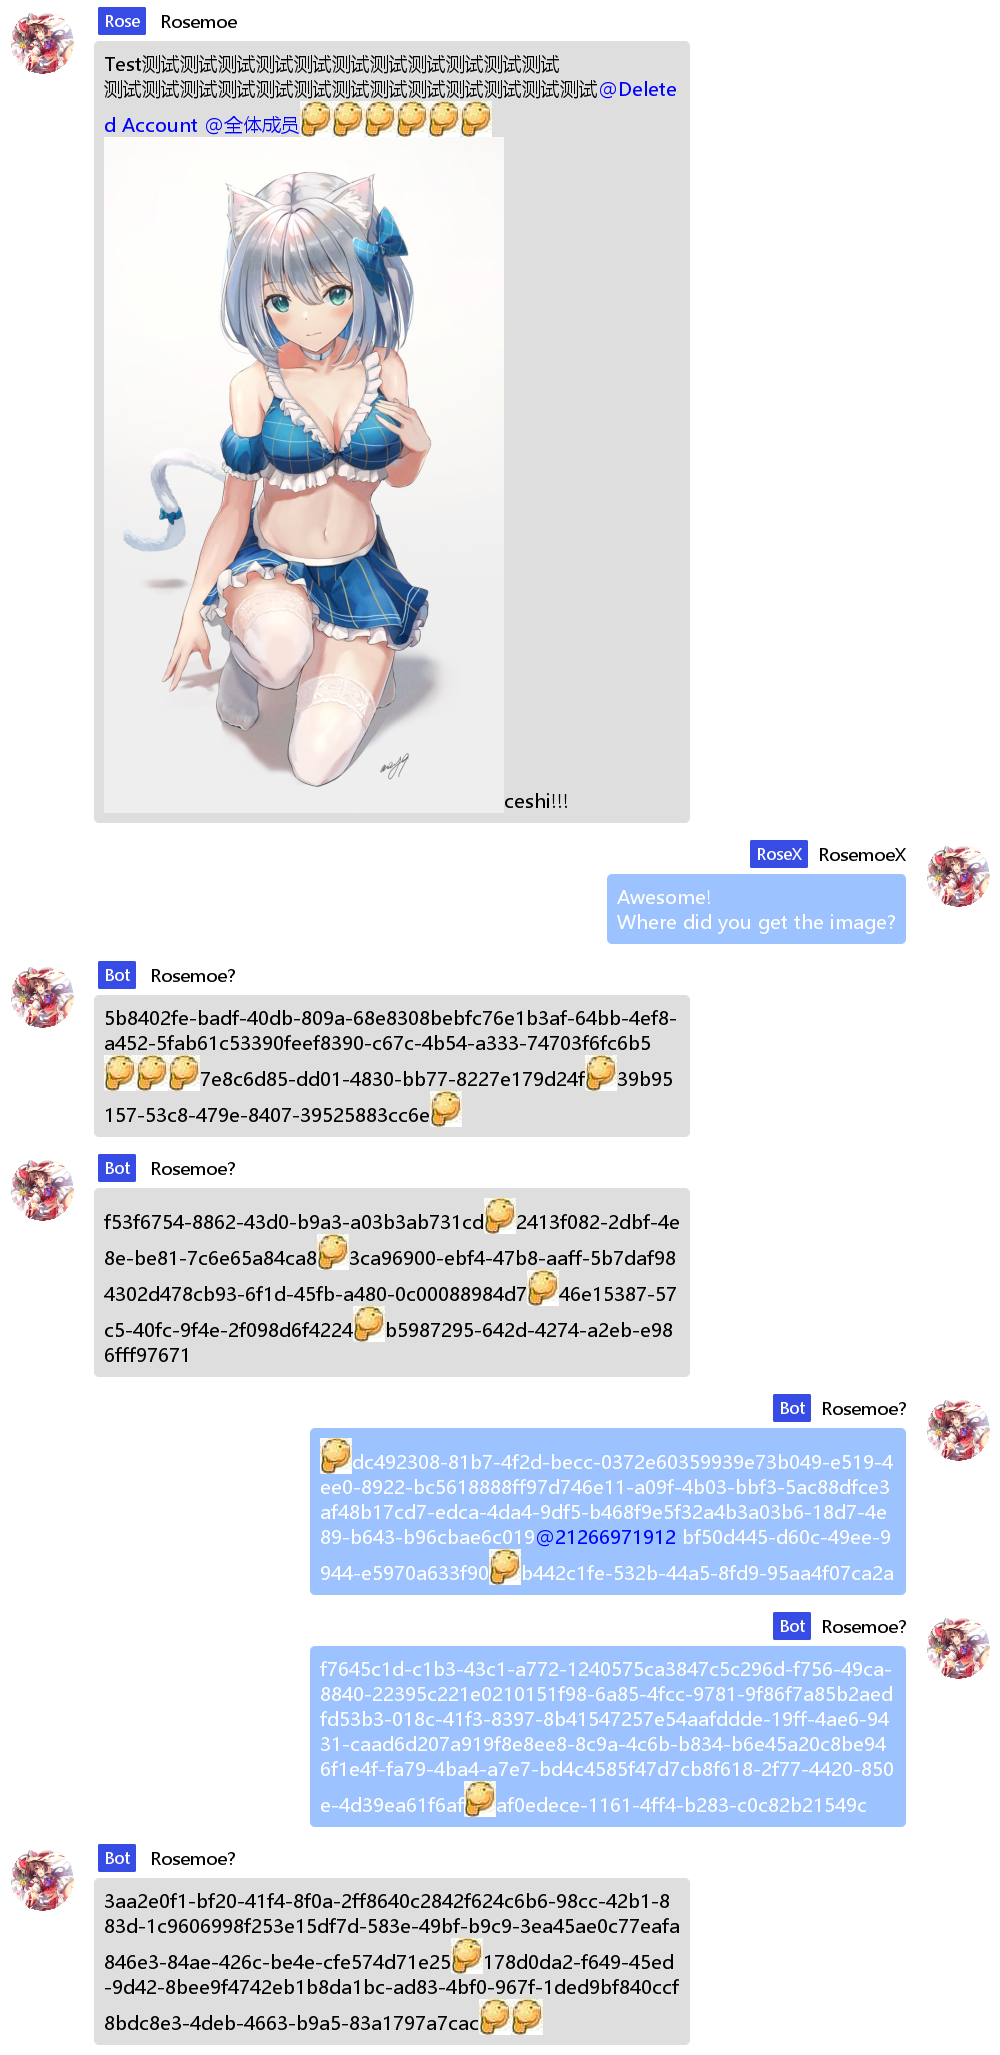
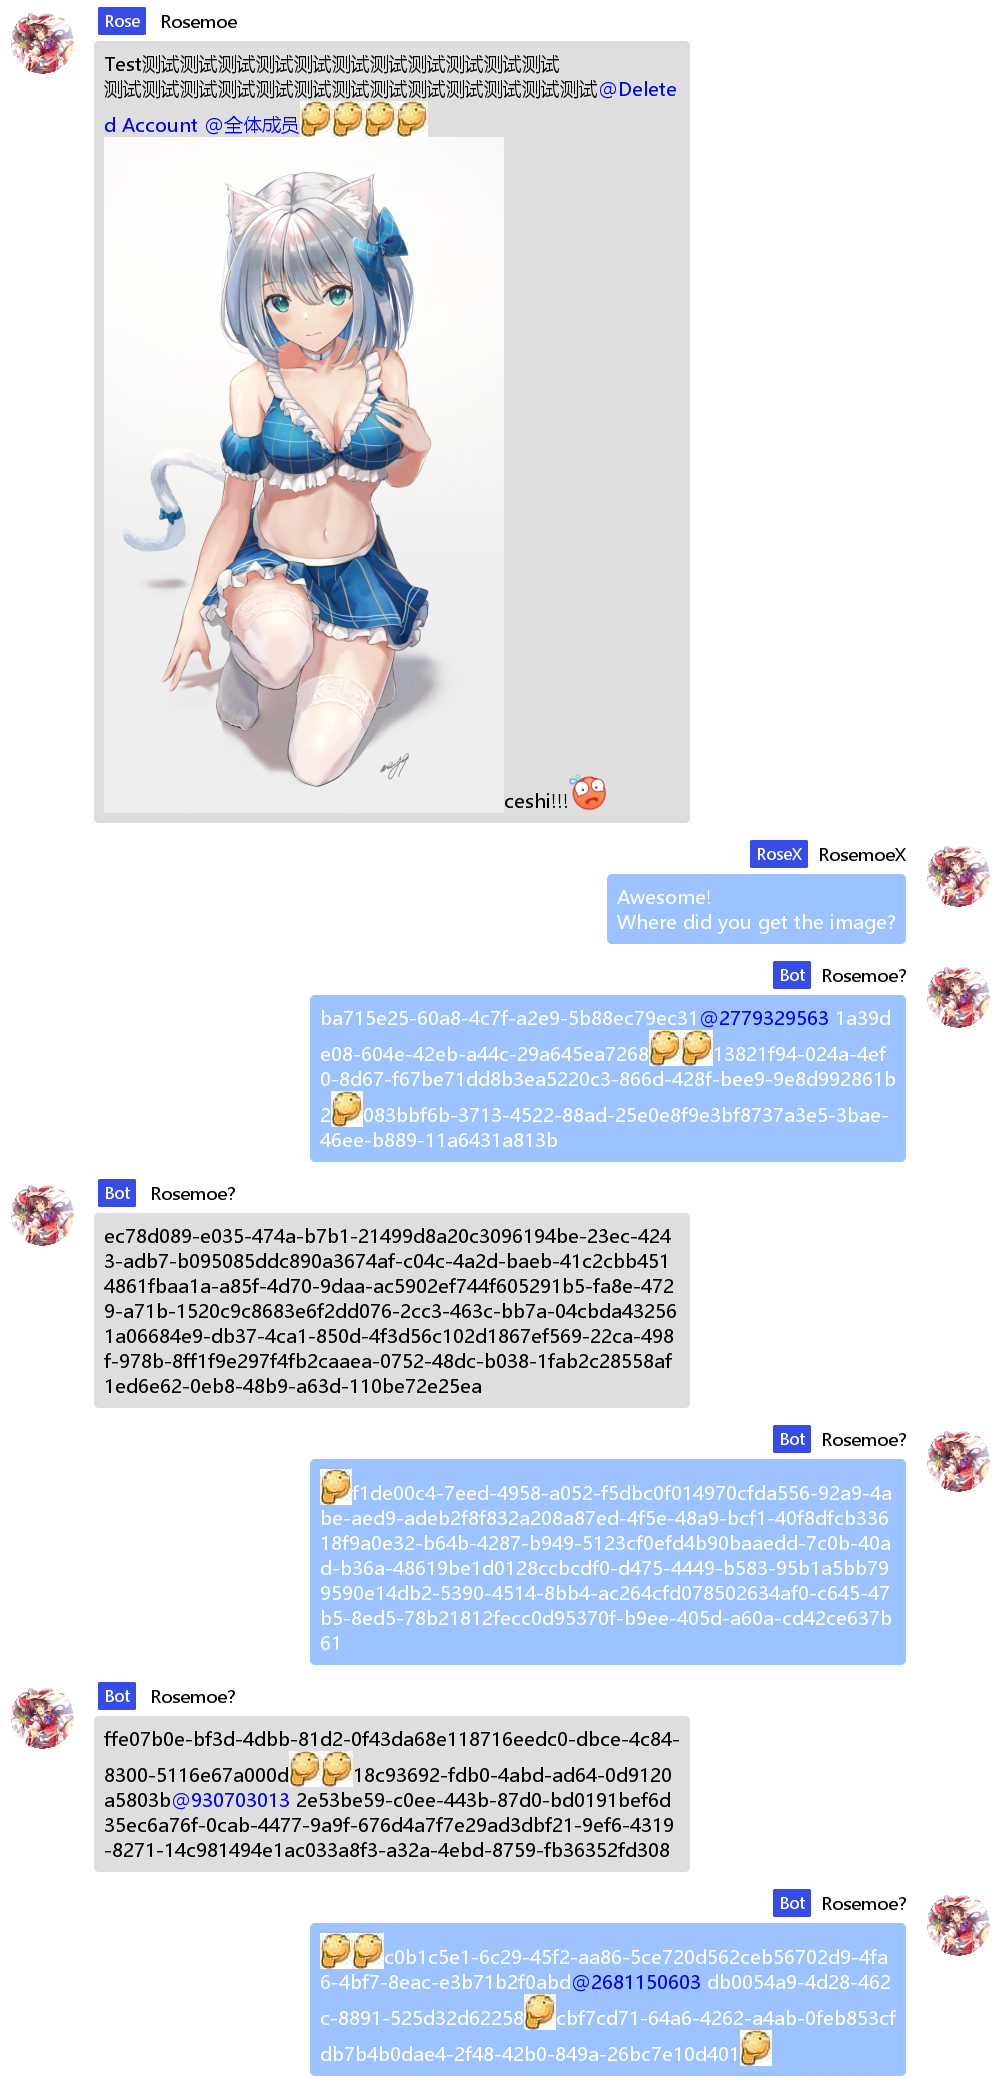
Add FaceStore and some qq faces

diff --git a/src/main/kotlin/io/github/rosemoe/msgRenderer/FaceStore.kt b/src/main/kotlin/io/github/rosemoe/msgRenderer/FaceStore.kt
@@ -1,0 +1,57 @@
+package io.github.rosemoe.msgRenderer
+
+import net.mamoe.mirai.message.data.Face
+import java.awt.Image
+import java.io.InputStreamReader
+import javax.imageio.ImageIO
+
+/**
+ * Class for managing QQ faces
+ */
+object FaceStore {
+
+    private var size = 40
+
+    private val faces by lazy {
+        val map = HashMap<Int, Image?>()
+        val cl = FaceStore::class.java.classLoader
+        InputStreamReader(cl.getResourceAsStream("FaceStore/index.data")!!).readText().split(",").forEach {
+            val fileName = "FaceStore/$it.png"
+            val image = ImageIO.read(cl.getResourceAsStream(fileName))
+            if (image.getWidth(null) != size) {
+                map[it.toInt()] = image.getScaledInstance(size, size, Image.SCALE_SMOOTH)
+            } else {
+                map[it.toInt()] = image
+            }
+        }
+        map
+    }
+
+    fun loadFace(face: Face) = loadFace(face.id)
+
+    @Synchronized
+    fun loadFace(faceId: Int): Image? {
+        return faces[faceId]
+    }
+
+    @Synchronized
+    fun setFaceImage(faceId: Int, image: Image?) {
+        faces[faceId] = image
+        if (image != null && image.getWidth(null) != size) {
+            faces[faceId] = image.getScaledInstance(size, size, Image.SCALE_SMOOTH)
+        }
+    }
+
+    @Synchronized
+    fun setImageSize(size: Int) {
+        this.size = size
+        faces.entries.parallelStream().forEach {
+            val image = it.value
+            if (image != null && image.getWidth(null) != size) {
+                it.setValue(image.getScaledInstance(size, size, Image.SCALE_SMOOTH))
+            }
+        }
+    }
+
+
+}

diff --git a/src/test/kotlin/Main.kt b/src/test/kotlin/Main.kt
@@ -28,7 +28,8 @@ fun main(args: Array<String>) {
                 MiraiImage(localImageId1),
                 MiraiImage(localImageId1),
                 MiraiImage(localImageId2),
-                PlainText("ceshi!!!")
+                PlainText("ceshi!!!"),
+                Face(Face.JING_KONG)
             )
             "RosemoeX" titled "RoseX" avatar avatar send "Awesome!\nWhere did you get the image?" at right
         }
@@ -77,7 +78,7 @@ fun main(args: Array<String>) {
             }
 
             override fun getImageForFace(face: Face): Image? {
-                return null
+                return FaceStore.loadFace(face)
             }
 
             override fun getTextForAt(at: At): String {
